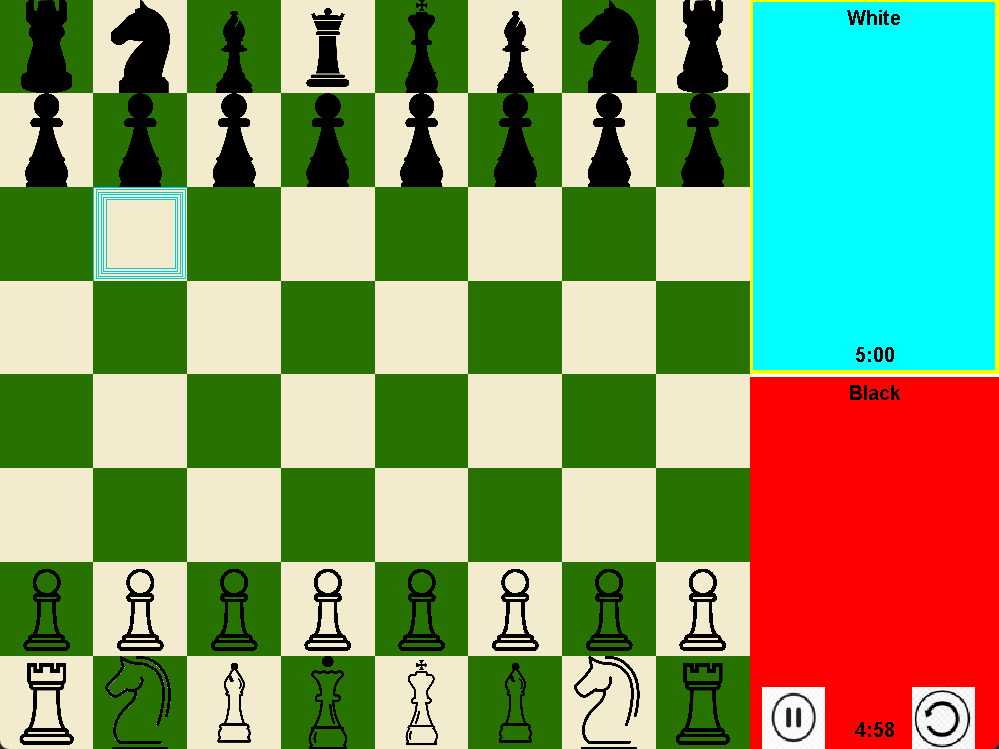
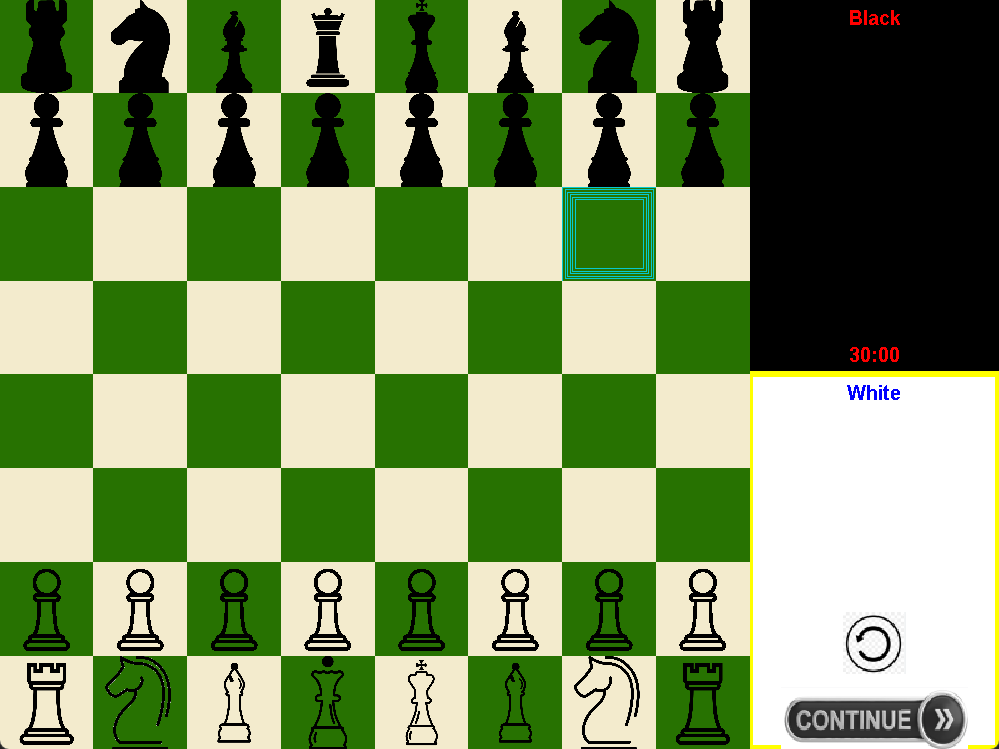
add images, resize the window

Changed region(s): [[0.7447, 0.0, 1.0, 1.0], [0.0931, 0.2457, 0.1862, 0.3685], [0.5586, 0.2457, 0.6517, 0.3685]]

diff --git a/src/main/java/view/Window/WindowLayout.java b/src/main/java/view/Window/WindowLayout.java
@@ -20,8 +20,8 @@ public class WindowLayout extends LayoutAdapter {
     public void layoutContainer(Container parent) {
 
         //board view layout
-        int len = Math.min(parent.getWidth()* 3 / 5, parent.getHeight());
-        int timerWidth = Math.min(parent.getWidth() / 5, parent.getHeight());
+        int len = Math.min((parent.getWidth() * 3) / 4, parent.getHeight());
+        int timerWidth = Math.min(parent.getWidth() / 4, parent.getHeight());
         boardView.setBounds(0, 0, len, len);
         timerView.setBounds(len,0,timerWidth,len);
     }

diff --git a/src/main/java/view/Window/WindowViewTest.java b/src/main/java/view/Window/WindowViewTest.java
@@ -14,7 +14,7 @@ public class WindowViewTest extends JFrame {
     public WindowViewTest() {
         this.setDefaultCloseOperation(JFrame.EXIT_ON_CLOSE);
         this.setLayout(null);
-        this.setSize(1014, 637);
+        this.setSize(814, 637);
         this.setLocation(250, 150);
 
         WindowViewModel windowViewModel = new WindowViewModel(ViewStates.BOARD_VIEW);

diff --git a/src/main/java/app/Main.java b/src/main/java/app/Main.java
@@ -26,7 +26,7 @@ public class Main {
                 .build();
 
         // Set up and display the application window
-        application.setSize(1014, 637);
+        application.setSize(814, 637);
         application.setResizable(false);
         application.setVisible(true);
     }
